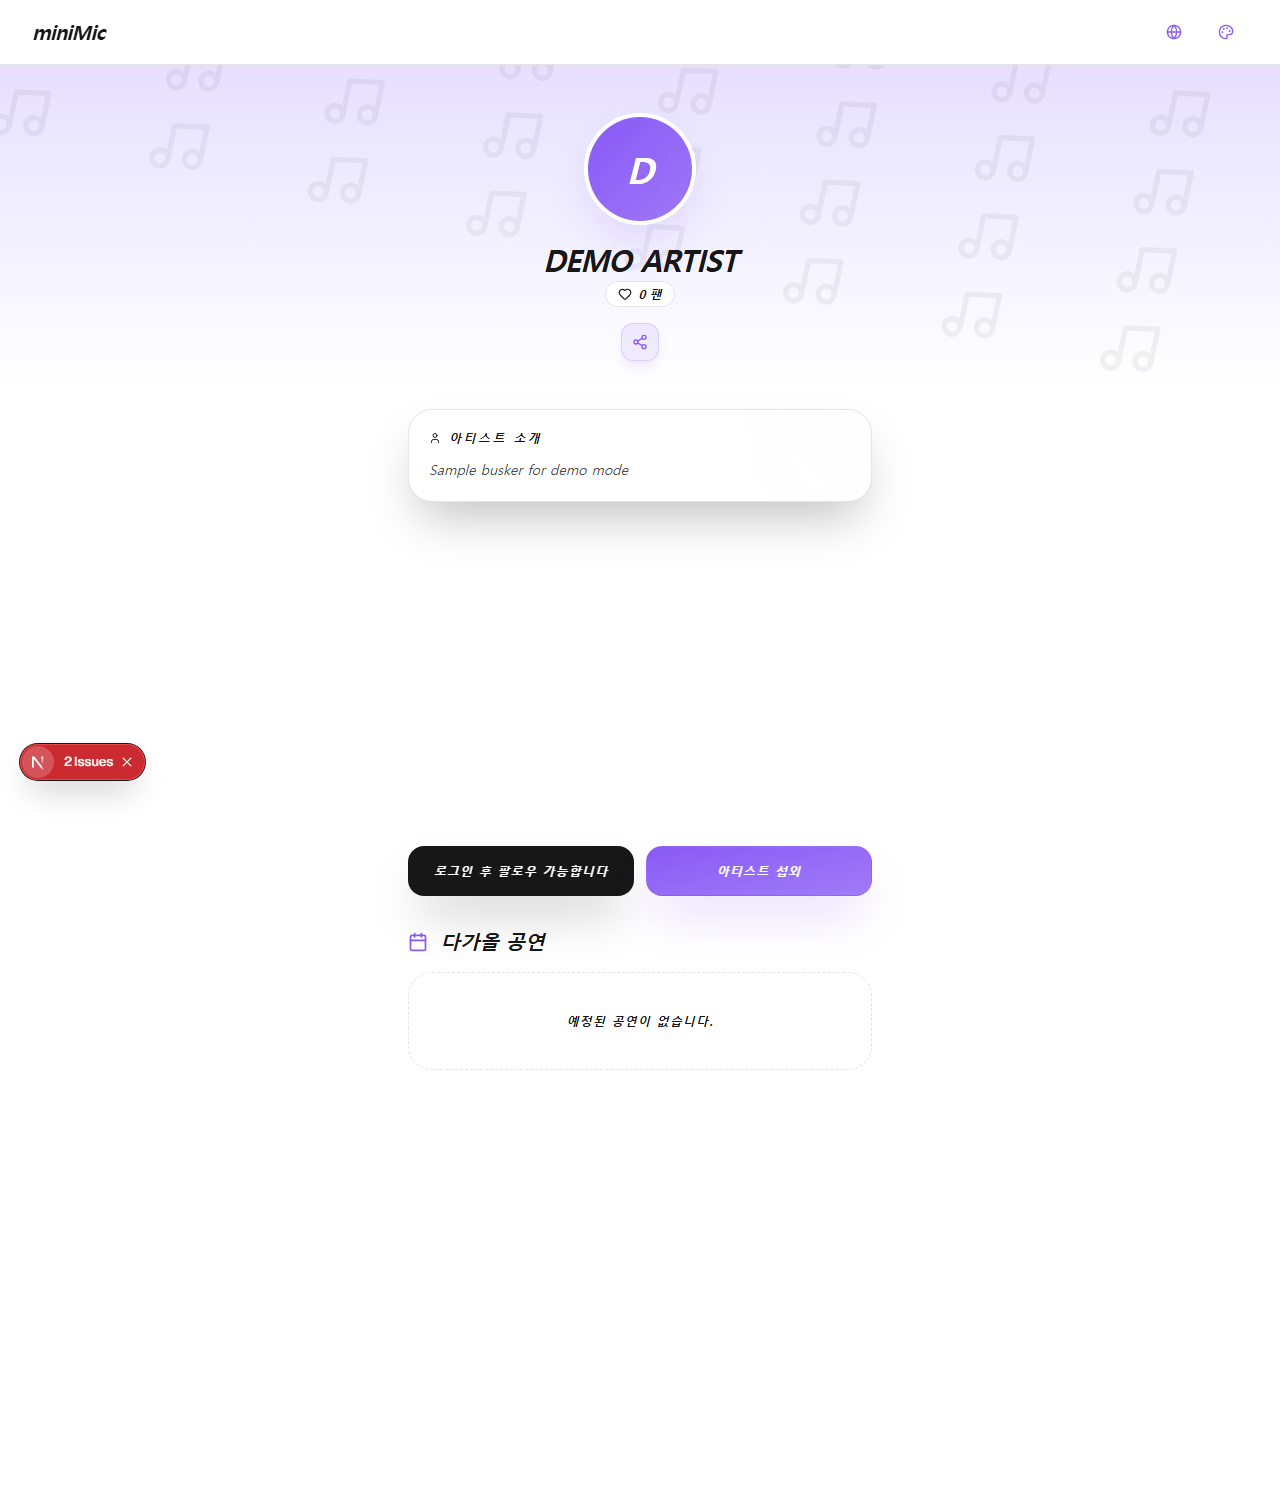
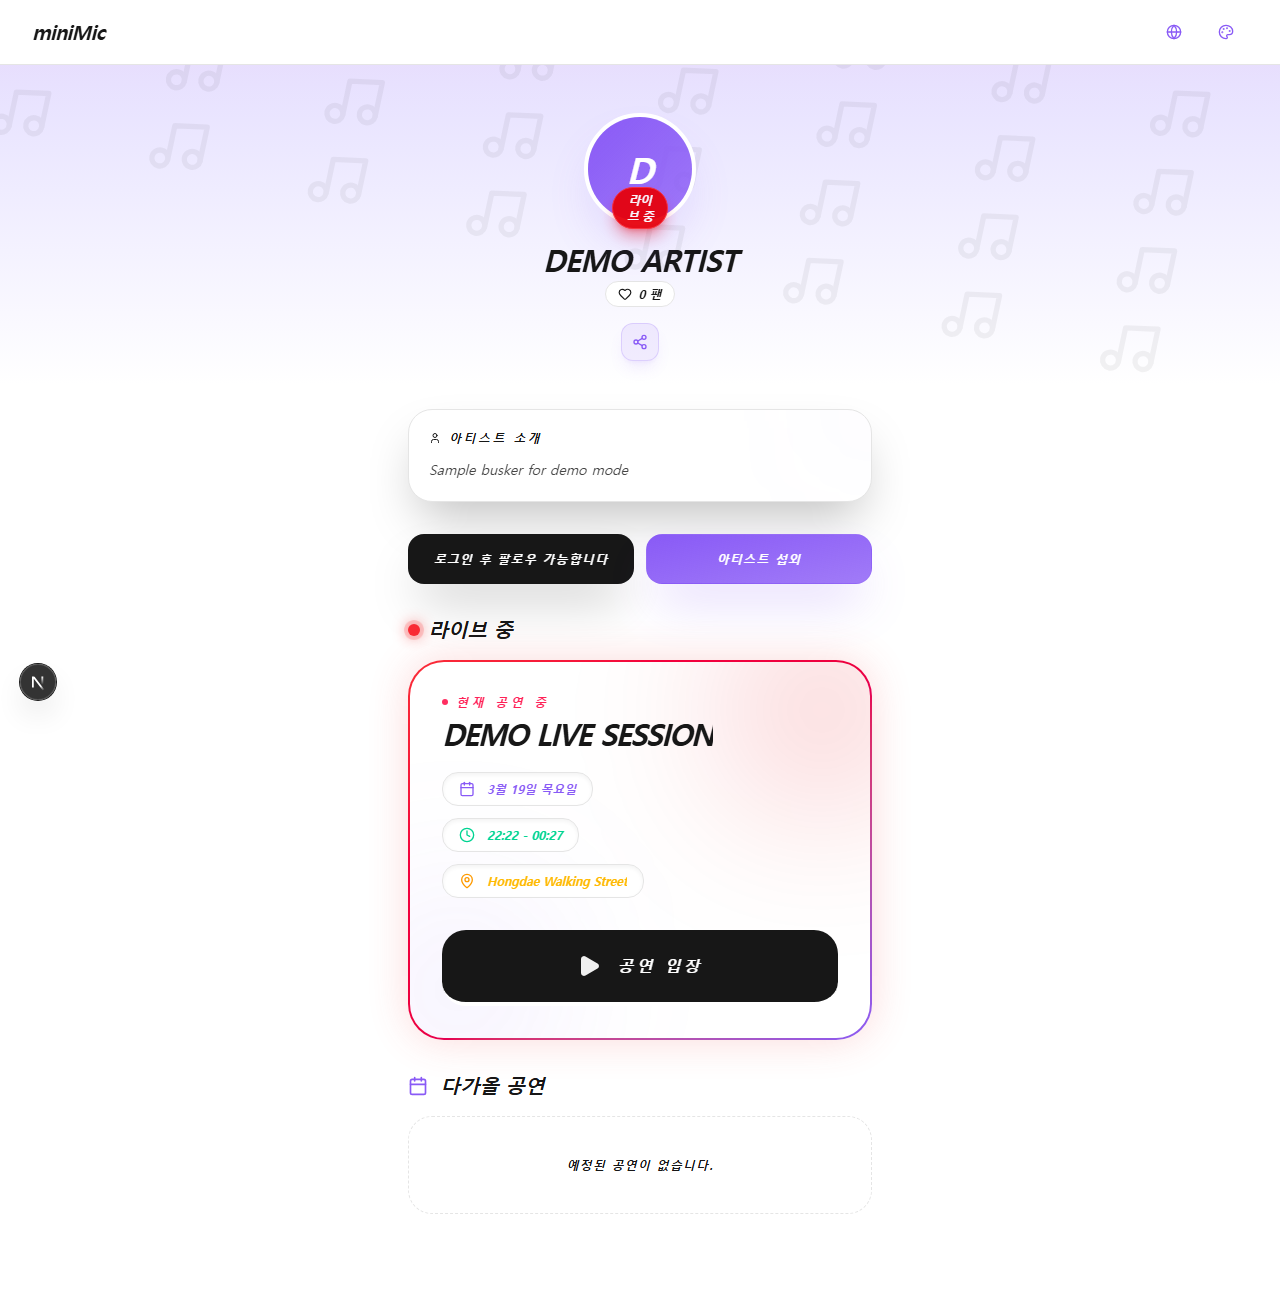
fix: Streamline UI - login text, fullscreen map, LIVE badge redesign

diff --git a/public/guide-draft.html b/public/guide-draft.html
@@ -1,0 +1,79 @@
+<!doctype html>
+<html lang="ko">
+<head>
+  <meta charset="UTF-8" />
+  <meta name="viewport" content="width=device-width, initial-scale=1.0" />
+  <title>Busking Guide Draft Board</title>
+  <style>
+    :root { --bg:#f6f7fb; --card:#fff; --ink:#0f172a; --muted:#64748b; --line:#dbe1ea; --accent:#2563eb; }
+    * { box-sizing:border-box; }
+    body { margin:0; background:var(--bg); color:var(--ink); font-family: "Segoe UI","Noto Sans KR",sans-serif; }
+    .wrap { max-width: 1900px; margin:0 auto; padding:28px; }
+    .hero { background:linear-gradient(135deg,#fff,#edf3ff); border:1px solid var(--line); border-radius:20px; padding:20px 24px; margin-bottom:24px; }
+    h1 { margin:0 0 8px; font-size:30px; }
+    .sub { margin:0; color:var(--muted); font-size:14px; }
+    .page { background:var(--card); border:1px solid var(--line); border-radius:18px; padding:16px; margin-bottom:22px; }
+    .page h2 { margin:0 0 6px; font-size:22px; }
+    .page .desc { margin:0 0 14px; color:var(--muted); font-size:13px; }
+    .grid { display:grid; grid-template-columns:repeat(3,minmax(0,1fr)); gap:14px; }
+    .shot { background:#fff; border:1px solid var(--line); border-radius:14px; overflow:hidden; }
+    .top { display:flex; justify-content:space-between; align-items:center; padding:10px 12px; border-bottom:1px solid var(--line); background:#f8fafc; }
+    .name { font-size:13px; font-weight:700; }
+    .chip { font-size:11px; font-weight:700; background:#e8efff; color:#1e40af; border-radius:999px; padding:4px 8px; }
+    .img-wrap { position:relative; background:#e2e8f0; }
+    img { width:100%; display:block; }
+    .pin { position:absolute; width:24px; height:24px; border-radius:999px; background:var(--accent); color:#fff; font-size:12px; font-weight:800; display:flex; align-items:center; justify-content:center; border:2px solid #fff; box-shadow:0 6px 16px rgba(37,99,235,.35); }
+    .notes { padding:10px 12px; border-top:1px solid var(--line); font-size:12px; line-height:1.45; color:#334155; }
+    .notes b { color:#0f172a; }
+  </style>
+  <script src="https://mcp.figma.com/mcp/html-to-design/capture.js" async></script>`r`n</head>
+<body>
+  <div class="wrap">
+    <section class="hero">
+      <h1>기능 안내 이미지 초안</h1>
+      <p class="sub">초안 목적: 각 화면 캡처 위에 버튼/영역 번호를 놓고, 오른쪽(아래) 설명 문구를 짧고 쉽게 붙일 수 있는 베이스 보드</p>
+    </section>
+
+    <section class="page">
+      <h2>1) 홈 화면</h2>
+      <p class="desc">기능 포인트: 시작/체험/탐색 진입 버튼</p>
+      <div class="grid">
+        <article class="shot"><div class="top"><span class="name">Mobile</span><span class="chip">/ (home)</span></div><div class="img-wrap"><img src="/screenshots/1_Home_Demo_Mobile.png" alt="home mobile"><span class="pin" style="left:30%;top:78%;">1</span><span class="pin" style="left:52%;top:78%;">2</span><span class="pin" style="left:74%;top:78%;">3</span></div><div class="notes"><b>1</b> 시작하기 <b>2</b> 데모 체험 <b>3</b> 둘러보기</div></article>
+        <article class="shot"><div class="top"><span class="name">Tablet</span><span class="chip">/ (home)</span></div><div class="img-wrap"><img src="/screenshots/1_Home_Demo_Tablet.png" alt="home tablet"><span class="pin" style="left:36%;top:79%;">1</span><span class="pin" style="left:52%;top:79%;">2</span><span class="pin" style="left:69%;top:79%;">3</span></div><div class="notes">버튼 설명 위치 초안</div></article>
+        <article class="shot"><div class="top"><span class="name">PC</span><span class="chip">/ (home)</span></div><div class="img-wrap"><img src="/screenshots/1_Home_Demo_PC.png" alt="home pc"><span class="pin" style="left:40%;top:76%;">1</span><span class="pin" style="left:52%;top:76%;">2</span><span class="pin" style="left:63%;top:76%;">3</span></div><div class="notes">PC 비율 기준 번호 배치 초안</div></article>
+      </div>
+    </section>
+
+    <section class="page">
+      <h2>2) 탐색(지도) 화면</h2>
+      <p class="desc">기능 포인트: 지도/리스트 전환, 팔로잉, 카드 진입</p>
+      <div class="grid">
+        <article class="shot"><div class="top"><span class="name">Mobile</span><span class="chip">/explore</span></div><div class="img-wrap"><img src="/screenshots/2_ExploreMap_Demo_Mobile.png" alt="explore mobile"><span class="pin" style="left:16%;top:8%;">1</span><span class="pin" style="left:47%;top:8%;">2</span><span class="pin" style="left:76%;top:8%;">3</span></div><div class="notes"><b>1</b> 홈 <b>2</b> 지도/리스트 <b>3</b> 팔로잉</div></article>
+        <article class="shot"><div class="top"><span class="name">Tablet</span><span class="chip">/explore</span></div><div class="img-wrap"><img src="/screenshots/2_ExploreMap_Demo_Tablet.png" alt="explore tablet"><span class="pin" style="left:19%;top:8%;">1</span><span class="pin" style="left:52%;top:8%;">2</span><span class="pin" style="left:80%;top:8%;">3</span></div><div class="notes">상단 액션 설명용</div></article>
+        <article class="shot"><div class="top"><span class="name">PC</span><span class="chip">/explore</span></div><div class="img-wrap"><img src="/screenshots/2_ExploreMap_Demo_PC.png" alt="explore pc"><span class="pin" style="left:21%;top:9%;">1</span><span class="pin" style="left:53%;top:9%;">2</span><span class="pin" style="left:79%;top:9%;">3</span></div><div class="notes">PC 헤더 설명 초안</div></article>
+      </div>
+    </section>
+
+    <section class="page">
+      <h2>3) 싱어 프로필 화면</h2>
+      <p class="desc">기능 포인트: 팔로우, 섭외요청, 라이브 진입</p>
+      <div class="grid">
+        <article class="shot"><div class="top"><span class="name">Mobile</span><span class="chip">/singer/[id]</span></div><div class="img-wrap"><img src="/screenshots/3_SingerProfile_Demo_Mobile.png" alt="singer mobile"><span class="pin" style="left:35%;top:47%;">1</span><span class="pin" style="left:64%;top:47%;">2</span><span class="pin" style="left:48%;top:66%;">3</span></div><div class="notes"><b>1</b> 팔로우 <b>2</b> 섭외요청 <b>3</b> 라이브 입장</div></article>
+        <article class="shot"><div class="top"><span class="name">Tablet</span><span class="chip">/singer/[id]</span></div><div class="img-wrap"><img src="/screenshots/3_SingerProfile_Demo_Tablet.png" alt="singer tablet"><span class="pin" style="left:37%;top:47%;">1</span><span class="pin" style="left:62%;top:47%;">2</span><span class="pin" style="left:50%;top:64%;">3</span></div><div class="notes">프로필 핵심 버튼 설명 초안</div></article>
+        <article class="shot"><div class="top"><span class="name">PC</span><span class="chip">/singer/[id]</span></div><div class="img-wrap"><img src="/screenshots/3_SingerProfile_Demo_PC.png" alt="singer pc"><span class="pin" style="left:40%;top:49%;">1</span><span class="pin" style="left:60%;top:49%;">2</span><span class="pin" style="left:51%;top:62%;">3</span></div><div class="notes">PC 버튼 설명 포지션</div></article>
+      </div>
+    </section>
+
+    <section class="page">
+      <h2>4) 라이브룸 + 팝업</h2>
+      <p class="desc">기능 포인트: 곡 요청, 채팅, 후원, 포인트 충전 팝업</p>
+      <div class="grid">
+        <article class="shot"><div class="top"><span class="name">Live Mobile</span><span class="chip">/live/[id]</span></div><div class="img-wrap"><img src="/screenshots/4_AudienceLiveRoom_Demo_Mobile.png" alt="live mobile"><span class="pin" style="left:66%;top:24%;">1</span><span class="pin" style="left:49%;top:86%;">2</span><span class="pin" style="left:78%;top:86%;">3</span></div><div class="notes"><b>1</b> 곡요청 <b>2</b> 후원 500P <b>3</b> 광고후원</div></article>
+        <article class="shot"><div class="top"><span class="name">SongRequest Modal</span><span class="chip">Popup</span></div><div class="img-wrap"><img src="/screenshots/4.1_SongRequestModal_Demo_Mobile.png" alt="song request modal"><span class="pin" style="left:52%;top:70%;">1</span></div><div class="notes"><b>1</b> 요청 보내기 버튼</div></article>
+        <article class="shot"><div class="top"><span class="name">PointCharge Modal</span><span class="chip">Popup</span></div><div class="img-wrap"><img src="/screenshots/4.2_PointChargeModal_Demo_Mobile.png" alt="point charge modal"><span class="pin" style="left:50%;top:74%;">1</span></div><div class="notes"><b>1</b> 충전 진행 버튼</div></article>
+      </div>
+    </section>
+  </div>
+</body>
+</html>
+

diff --git a/tmp/capture_emulated.js b/tmp/capture_emulated.js
@@ -1,0 +1,117 @@
+const { chromium, devices } = require('playwright');
+const fs = require('fs');
+const path = require('path');
+const { PrismaClient } = require('@prisma/client');
+
+const prisma = new PrismaClient();
+const BASE_URL = 'http://localhost:3000';
+
+const deviceList = [
+  { name: 'PC', config: devices['Desktop Chrome'] },
+  { name: 'Tablet', config: devices['iPad Pro 11'] },
+  { name: 'Mobile', config: devices['iPhone 13'] }
+];
+
+async function capture() {
+  console.log('에러 수정 완료! 모든 스크린샷 초기화 후 완벽한 모바일/태블릿/PC 에뮬레이션 캡처 봇을 시작합니다...');
+  
+  const browser = await chromium.launch({ headless: true });
+  
+  const outputDir = path.join(__dirname, '..', 'public', 'screenshots');
+  if (!fs.existsSync(outputDir)) {
+    fs.mkdirSync(outputDir, { recursive: true });
+  }
+
+  const SINGER_ID = 'demo-singer-001';
+
+  for (const { name: vpName, config } of deviceList) {
+    const context = await browser.newContext(config);
+    const page = await context.newPage();
+
+    // 부트스트랩을 위해 한 번 거침
+    try {
+        await page.goto(`${BASE_URL}/explore`, { waitUntil: 'domcontentloaded' });
+        await page.waitForTimeout(3000); 
+    } catch(e) {}
+
+    let livePerfId = null;
+    try {
+        const demoPerf = await prisma.performance.findFirst({
+            where: { singerId: SINGER_ID, status: 'live' },
+            orderBy: { startTime: 'desc' }
+        });
+        if (demoPerf) livePerfId = demoPerf.id;
+    } catch (e) {}
+
+    try {
+        await page.goto(`${BASE_URL}/`, { waitUntil: 'domcontentloaded' });
+        await page.waitForTimeout(3000);
+        await page.screenshot({ path: path.join(outputDir, `1_Home_Demo_${vpName}.png`), fullPage: true });
+        console.log(`✔ 1_Home 캡처 (${vpName})`);
+    } catch(e) { console.error(e) }
+
+    try {
+        await page.goto(`${BASE_URL}/explore`, { waitUntil: 'domcontentloaded' });
+        await page.waitForTimeout(4000); // 맵 로딩 대기
+        await page.screenshot({ path: path.join(outputDir, `2_ExploreMap_Demo_${vpName}.png`), fullPage: true });
+        console.log(`✔ 2_ExploreMap 캡처 (${vpName})`);
+    } catch(e) { console.error(e) }
+
+    try {
+        await page.goto(`${BASE_URL}/singer/${SINGER_ID}`, { waitUntil: 'domcontentloaded' });
+        await page.waitForTimeout(3000);
+        await page.screenshot({ path: path.join(outputDir, `3_SingerProfile_Demo_${vpName}.png`), fullPage: true });
+        console.log(`✔ 3_SingerProfile 캡처 (${vpName})`);
+
+        // 예약(Booking) 팝업 열기
+        // .sticky.top-20 안의 두 번째 버튼 클릭
+        const bookingBtn = page.locator('.sticky.top-20 button').nth(1);
+        if (await bookingBtn.count() > 0) {
+            await bookingBtn.click({ force: true });
+            await page.waitForTimeout(1000);
+            await page.screenshot({ path: path.join(outputDir, `3.1_BookingModal_Demo_${vpName}.png`), fullPage: true });
+            console.log(`✔ 3.1_BookingModal 팝업 캡처 (${vpName})`);
+        }
+    } catch(e) { console.error(e) }
+
+    if (livePerfId) {
+        try {
+            await page.goto(`${BASE_URL}/live/${livePerfId}`, { waitUntil: 'domcontentloaded' });
+            await page.waitForTimeout(8000); // 라이브 페이지 풀 렌더를 위해 대기
+            await page.screenshot({ path: path.join(outputDir, `4_AudienceLiveRoom_Demo_${vpName}.png`), fullPage: true });
+            console.log(`✔ 4_AudienceLive 캡처 (${vpName})`);
+
+            // 곡 신청 팝업 열기
+            const reqBtn = page.locator('button:has(.lucide-music)').first();
+            if (await reqBtn.count() > 0) {
+                await reqBtn.click({ force: true });
+                await page.waitForTimeout(1000);
+                await page.screenshot({ path: path.join(outputDir, `4.1_SongRequestModal_Demo_${vpName}.png`), fullPage: true });
+                console.log(`✔ 4.1_SongRequestModal 팝업 캡처 (${vpName})`);
+                await page.keyboard.press('Escape'); // 모달 닫기
+                await page.waitForTimeout(500);
+            }
+
+            // 포인트 충전 모달(현재 Mobile UI에만 버튼이 표시됨)
+            if (vpName === 'Mobile') {
+                const chargeBtn = page.locator('.sm\\:hidden button').first();
+                if (await chargeBtn.count() > 0) {
+                    await chargeBtn.click({ force: true });
+                    await page.waitForTimeout(1000);
+                    await page.screenshot({ path: path.join(outputDir, `4.2_PointChargeModal_Demo_${vpName}.png`), fullPage: true });
+                    console.log(`✔ 4.2_PointChargeModal 팝업 캡처 (${vpName})`);
+                }
+            }
+        } catch(e) { console.error(e) }
+    }
+
+    await context.close();
+  }
+
+  await browser.close();
+  await prisma.$disconnect();
+  console.log('🎉 에뮬레이션 기반 전체 캡처가 모두 안전하게 완료되었습니다!');
+  process.exit(0);
+}
+
+capture();

diff --git a/src/app/singer/[id]/page.tsx b/src/app/singer/[id]/page.tsx
@@ -182,23 +182,29 @@ export default function SingerDetailPage() {
 
                 <div className="absolute bottom-0 left-0 w-full p-6 z-10 flex flex-col items-center text-center">
                     <div className="relative mb-4">
-                        <div className="w-28 h-28 rounded-full border-4 border-background bg-muted overflow-hidden shadow-2xl shadow-primary/20">
+                        <div className={`w-28 h-28 rounded-full border-4 border-background bg-muted overflow-hidden shadow-2xl ${singer.performances.some((p: any) => getEffectiveStatus(p) === 'live') ? 'shadow-red-500/50 ring-4 ring-red-500/30' : 'shadow-primary/20'}`}>
                             {singer.profile?.avatarUrl ? (
                                 <img src={singer.profile.avatarUrl} className="w-full h-full object-cover" alt={singer.stageName} />
                             ) : (
-                                <div className="w-full h-full bg-gradient-to-br from-primary to-primary/80 flex items-center justify-center text-primary-foreground text-4xl font-black italic">
+                                <div className={`w-full h-full flex items-center justify-center text-primary-foreground text-4xl font-black italic ${singer.performances.some((p: any) => getEffectiveStatus(p) === 'live') ? 'bg-gradient-to-br from-red-600 to-red-700' : 'bg-gradient-to-br from-primary to-primary/80'}`}>
                                     {singer.stageName?.[0] || t('common.singer_fallback')[0]}
                                 </div>
                             )}
                         </div>
-                        {singer.performances.some((p: any) => getEffectiveStatus(p) === 'live') && (
-                            <div className="absolute -bottom-1 left-1/2 -translate-x-1/2 bg-red-600 text-white text-xs font-black px-3 py-1 rounded-full animate-pulse shadow-lg shadow-red-600/40 border border-red-500 tracking-tighter italic">
-                                {t('live.status_live')}
-                            </div>
-                        )}
                     </div>
                     
-                    <h1 className="text-3xl font-black italic tracking-tight mb-1 uppercase">{singer.stageName || t('common.singer_fallback')}</h1>
+                    <h1 className="text-3xl font-black italic tracking-tight mb-1 uppercase flex items-center gap-3 justify-center">
+                        {singer.stageName || t('common.singer_fallback')}
+                        {singer.performances.some((p: any) => getEffectiveStatus(p) === 'live') && (
+                            <span className="inline-flex items-center gap-1.5 bg-red-600/90 text-white text-[10px] font-black px-2.5 py-1 rounded-full shadow-lg shadow-red-600/30 animate-pulse">
+                                <span className="relative flex h-2 w-2">
+                                    <span className="animate-ping absolute inline-flex h-full w-full rounded-full bg-white/70 opacity-75"></span>
+                                    <span className="relative inline-flex rounded-full h-2 w-2 bg-white"></span>
+                                </span>
+                                LIVE
+                            </span>
+                        )}
+                    </h1>
                     <div className="flex items-center gap-4 text-xs font-bold text-muted-foreground mb-4">
                         <span className="flex items-center gap-1.5 bg-card px-3 py-1 rounded-full border border-border italic">
                             <Heart className={`w-3.5 h-3.5 ${isFollowed ? 'text-red-500 fill-current animate-bounce' : 'text-muted-foreground'}`} />

diff --git a/src/components/home/LandingPage.tsx b/src/components/home/LandingPage.tsx
@@ -22,22 +22,15 @@ export default function LandingPage({ userId, isSinger }: LandingPageProps) {
 
         setIsDemoLoading(true)
         try {
-            // Call auth/demo endpoint for server-side demo login
-            const response = await fetch('/auth/demo', {
+            // Setup fresh demo data
+            await fetch('/api/demo', {
                 method: 'POST',
+                headers: { 'Content-Type': 'application/json' },
+                body: JSON.stringify({ action: 'reset' })
             })
 
-            if (!response.ok) {
-                // Fallback: Just set demo data and redirect to dashboard
-                await fetch('/api/demo', {
-                    method: 'POST',
-                    headers: { 'Content-Type': 'application/json' },
-                    body: JSON.stringify({ action: 'reset' })
-                })
-            }
-
-            // Navigate to singer dashboard
-            router.push('/singer/dashboard')
+            // Navigate to explore page
+            router.push('/explore?demo=1')
         } catch (error) {
             const message = error instanceof Error && error.message ? error.message : t('common.error')
             alert(message)

diff --git a/src/app/explore/page.tsx b/src/app/explore/page.tsx
@@ -201,7 +201,7 @@ export default function ExplorePage() {
                 </div>
             </header>
 
-            <main className="flex-1 relative overflow-hidden bg-gray-50 h-full">
+            <main className="flex-1 relative overflow-hidden bg-gray-50 h-screen fixed inset-0">
                 {!isAuthenticated && showDemoBanner && (
                     <div className="absolute left-3 right-3 top-3 z-20 md:left-6 md:right-6 md:top-4">
                         <DemoBanner
@@ -212,7 +212,7 @@ export default function ExplorePage() {
                     </div>
                 )}
                 {viewMode === 'map' ? (
-                    <div className="h-full w-full min-h-[calc(100vh-140px)] md:min-h-[calc(100vh-80px)]">
+                    <div className="h-full w-full">
                         <BuskingMap performances={performances} isLoggedIn={!!user} />
                     </div>
                 ) : (

diff --git a/src/locales/ko.ts b/src/locales/ko.ts
@@ -38,7 +38,7 @@ export const ko: LocaleTypes = {
         home_button: '홈으로',
         follow: '팔로우',
         following: '팔로잉',
-        login_to_follow: '로그인 후 팔로우 가능합니다',
+        login_to_follow: '로그인 후 팔로우',
         anonymous: '익명',
         singer_fallback: '가수',
         fans: '팬',
@@ -271,7 +271,7 @@ export const ko: LocaleTypes = {
         sponsor_btn: '후원하기',
         sponsor_ad_btn: '광고보고 후원',
         ad_sponsor_success: '가수에게 10포인트를 후원했습니다!',
-        status_live: '라이브 중',
+        status_live: 'LIVE',
         status_syncing: '동기화 중...',
         info_show: '공연 정보 및 셋리스트 보기',
         info_hide: '정보 접기',

diff --git a/src/locales/zh-tw.ts b/src/locales/zh-tw.ts
@@ -38,7 +38,7 @@ export const zhTW: LocaleTypes = {
         home_button: '首頁',
         follow: '關注',
         following: '已關注',
-        login_to_follow: '請登入後關注',
+        login_to_follow: '登入後關注',
         anonymous: '匿名',
         singer_fallback: '藝人',
         fans: '粉絲',
@@ -271,7 +271,7 @@ export const zhTW: LocaleTypes = {
         sponsor_btn: '贊助',
         sponsor_ad_btn: '看廣告贊助',
         ad_sponsor_success: '您向藝人贊助了10積分！',
-        status_live: '直播中',
+        status_live: 'LIVE',
         status_syncing: '同步中...',
         info_show: '查看資訊與歌單',
         info_hide: '收起資訊',

diff --git a/src/locales/zh.ts b/src/locales/zh.ts
@@ -38,7 +38,7 @@ export const zh: LocaleTypes = {
         home_button: '首页',
         follow: '关注',
         following: '已关注',
-        login_to_follow: '请登录后关注',
+        login_to_follow: '登录后关注',
         anonymous: '匿名',
         singer_fallback: '艺人',
         fans: '粉丝',
@@ -271,7 +271,7 @@ export const zh: LocaleTypes = {
         sponsor_btn: '赞助',
         sponsor_ad_btn: '看广告赞助',
         ad_sponsor_success: '您向艺人赞助了10积分！',
-        status_live: '直播中',
+        status_live: 'LIVE',
         status_syncing: '同步中...',
         info_show: '查看信息与歌单',
         info_hide: '收起信息',

diff --git a/src/locales/ja.ts b/src/locales/ja.ts
@@ -271,7 +271,7 @@ export const ja: LocaleTypes = {
         sponsor_btn: '応援する',
         sponsor_ad_btn: '広告を見て応援',
         ad_sponsor_success: 'アーティストに10ポイントを応援しました！',
-        status_live: 'ライブ中',
+        status_live: 'LIVE',
         status_syncing: '同期中...',
         info_show: 'ライブ情報とセトリ',
         info_hide: '情報を隠す',

diff --git a/src/locales/en.ts b/src/locales/en.ts
@@ -269,7 +269,7 @@ export const en = {
         sponsor_btn: 'Sponsor',
         sponsor_ad_btn: 'Sponsor via Ad',
         ad_sponsor_success: 'You sponsored 10 points to the singer!',
-        status_live: 'Live Now',
+        status_live: 'LIVE',
         status_syncing: 'Syncing...',
         info_show: 'View Info & Setlist',
         info_hide: 'Hide Info',
